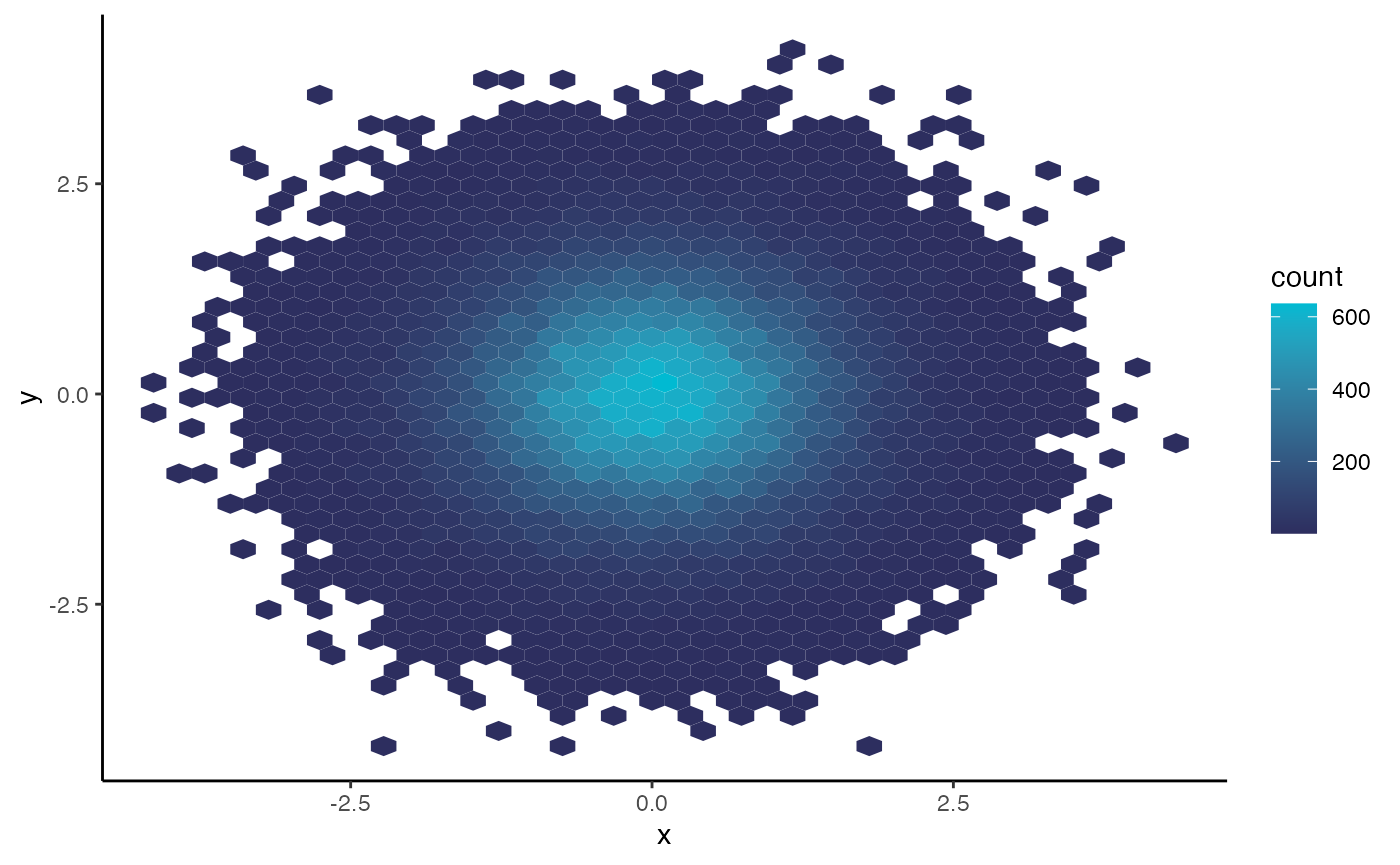
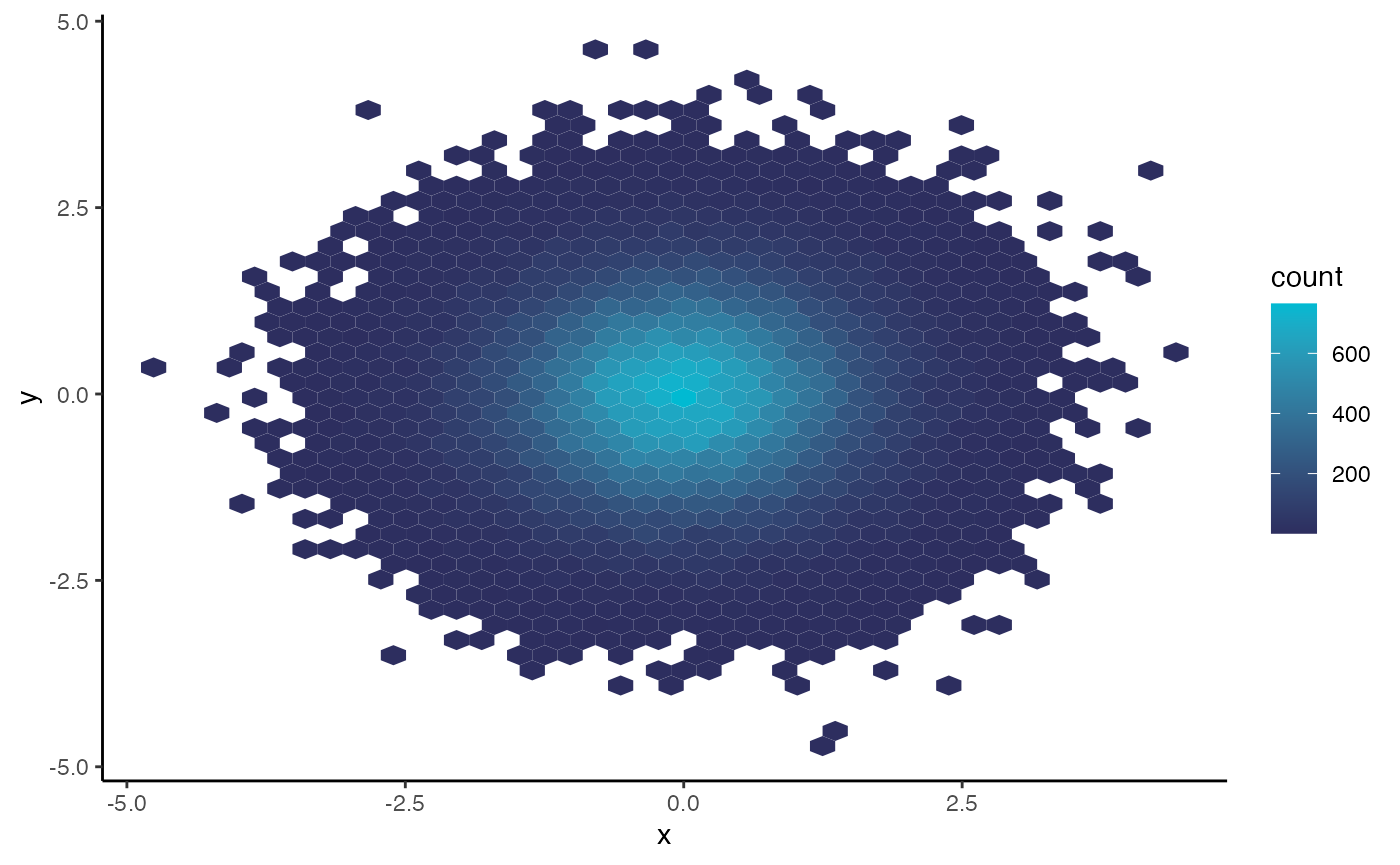
Exploring themes

diff --git a/docs/articles/HGUTheme.html b/docs/articles/HGUTheme.html
@@ -172,18 +172,18 @@ regression line on top. First we can make some fake data</p>
 <span><span class="op">)</span></span>
 <span><span class="va">plot_data</span></span>
 <span><span class="co">#&gt; <span style="color: #949494;"># A tibble: 100 × 2</span></span></span>
-<span><span class="co">#&gt;        x       y</span></span>
-<span><span class="co">#&gt;    <span style="color: #949494; font-style: italic;">&lt;dbl&gt;</span>   <span style="color: #949494; font-style: italic;">&lt;dbl&gt;</span></span></span>
-<span><span class="co">#&gt; <span style="color: #BCBCBC;"> 1</span> 0.271  0.076<span style="text-decoration: underline;">5</span></span></span>
-<span><span class="co">#&gt; <span style="color: #BCBCBC;"> 2</span> 0.576  0.467 </span></span>
-<span><span class="co">#&gt; <span style="color: #BCBCBC;"> 3</span> 0.791  1.15  </span></span>
-<span><span class="co">#&gt; <span style="color: #BCBCBC;"> 4</span> 0.677  0.322 </span></span>
-<span><span class="co">#&gt; <span style="color: #BCBCBC;"> 5</span> 0.180 -<span style="color: #BB0000;">0.064</span><span style="color: #BB0000; text-decoration: underline;">1</span></span></span>
-<span><span class="co">#&gt; <span style="color: #BCBCBC;"> 6</span> 0.217  0.278 </span></span>
-<span><span class="co">#&gt; <span style="color: #BCBCBC;"> 7</span> 0.563  0.385 </span></span>
-<span><span class="co">#&gt; <span style="color: #BCBCBC;"> 8</span> 0.387  0.427 </span></span>
-<span><span class="co">#&gt; <span style="color: #BCBCBC;"> 9</span> 0.426  0.737 </span></span>
-<span><span class="co">#&gt; <span style="color: #BCBCBC;">10</span> 0.846  0.882 </span></span>
+<span><span class="co">#&gt;        x      y</span></span>
+<span><span class="co">#&gt;    <span style="color: #949494; font-style: italic;">&lt;dbl&gt;</span>  <span style="color: #949494; font-style: italic;">&lt;dbl&gt;</span></span></span>
+<span><span class="co">#&gt; <span style="color: #BCBCBC;"> 1</span> 0.601  0.280</span></span>
+<span><span class="co">#&gt; <span style="color: #BCBCBC;"> 2</span> 0.679  0.863</span></span>
+<span><span class="co">#&gt; <span style="color: #BCBCBC;"> 3</span> 0.894  0.825</span></span>
+<span><span class="co">#&gt; <span style="color: #BCBCBC;"> 4</span> 0.624  0.735</span></span>
+<span><span class="co">#&gt; <span style="color: #BCBCBC;"> 5</span> 0.647  0.431</span></span>
+<span><span class="co">#&gt; <span style="color: #BCBCBC;"> 6</span> 0.620  0.535</span></span>
+<span><span class="co">#&gt; <span style="color: #BCBCBC;"> 7</span> 0.988  1.16 </span></span>
+<span><span class="co">#&gt; <span style="color: #BCBCBC;"> 8</span> 0.114 -<span style="color: #BB0000;">0.178</span></span></span>
+<span><span class="co">#&gt; <span style="color: #BCBCBC;"> 9</span> 0.343  0.615</span></span>
+<span><span class="co">#&gt; <span style="color: #BCBCBC;">10</span> 0.765  0.765</span></span>
 <span><span class="co">#&gt; <span style="color: #949494;"># … with 90 more rows</span></span></span></code></pre></div>
 <p>Then we can make a simple plot that you might make for a
 presentation:</p>

diff --git a/docs/reference/hgu_palette.html b/docs/reference/hgu_palette.html
@@ -78,7 +78,7 @@
 <span class="r-out co"><span class="r-pr">#&gt;</span> {</span>
 <span class="r-out co"><span class="r-pr">#&gt;</span>     c(hgu_dark(), hgu_mid(), hgu_light())</span>
 <span class="r-out co"><span class="r-pr">#&gt;</span> }</span>
-<span class="r-out co"><span class="r-pr">#&gt;</span> &lt;bytecode: 0x7fe509aa3628&gt;</span>
+<span class="r-out co"><span class="r-pr">#&gt;</span> &lt;bytecode: 0x7fdd60cbe828&gt;</span>
 <span class="r-out co"><span class="r-pr">#&gt;</span> &lt;environment: namespace:HGUTheme&gt;</span>
 </code></pre></div>
     </div>
